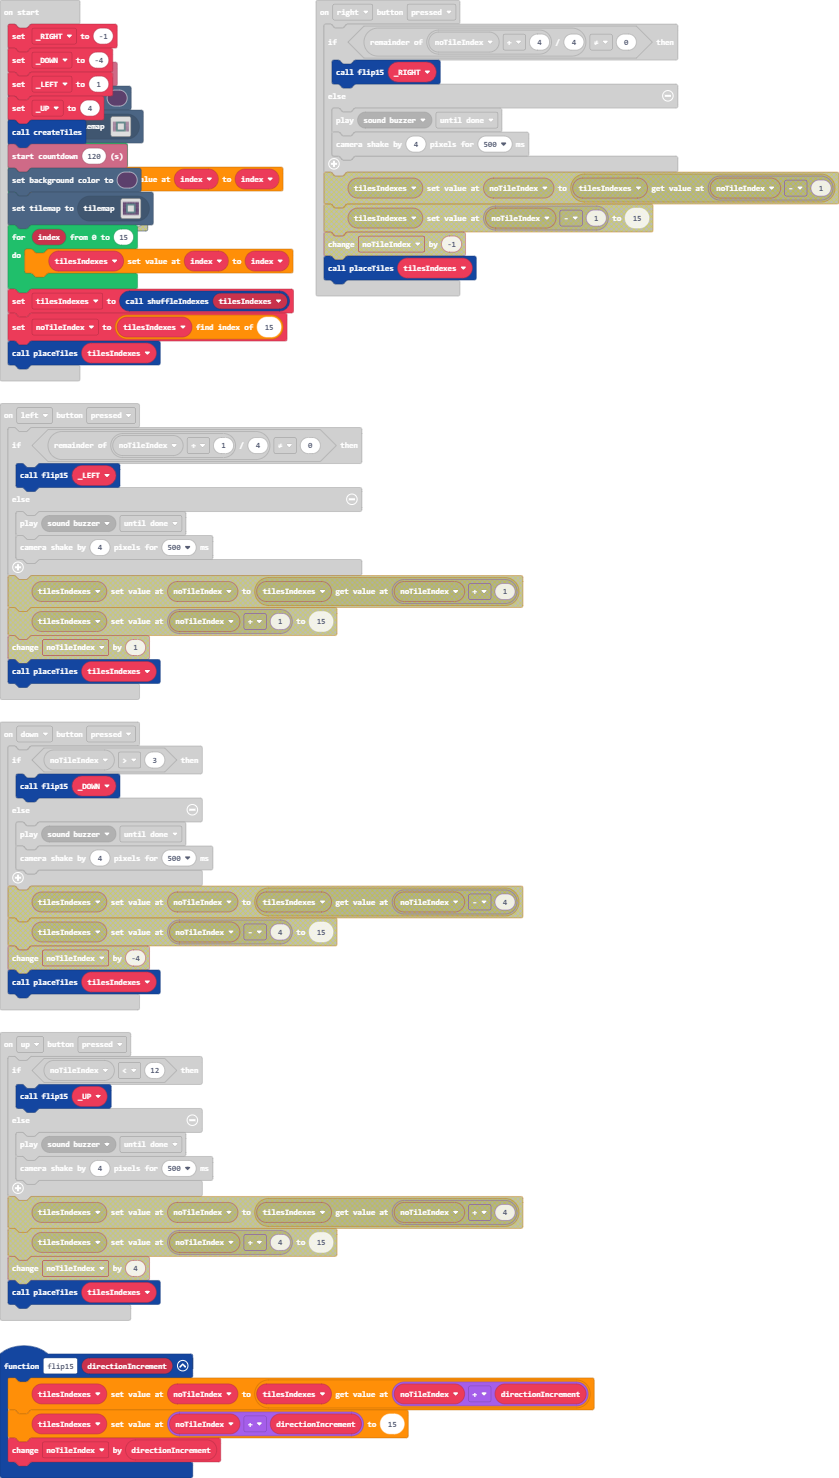
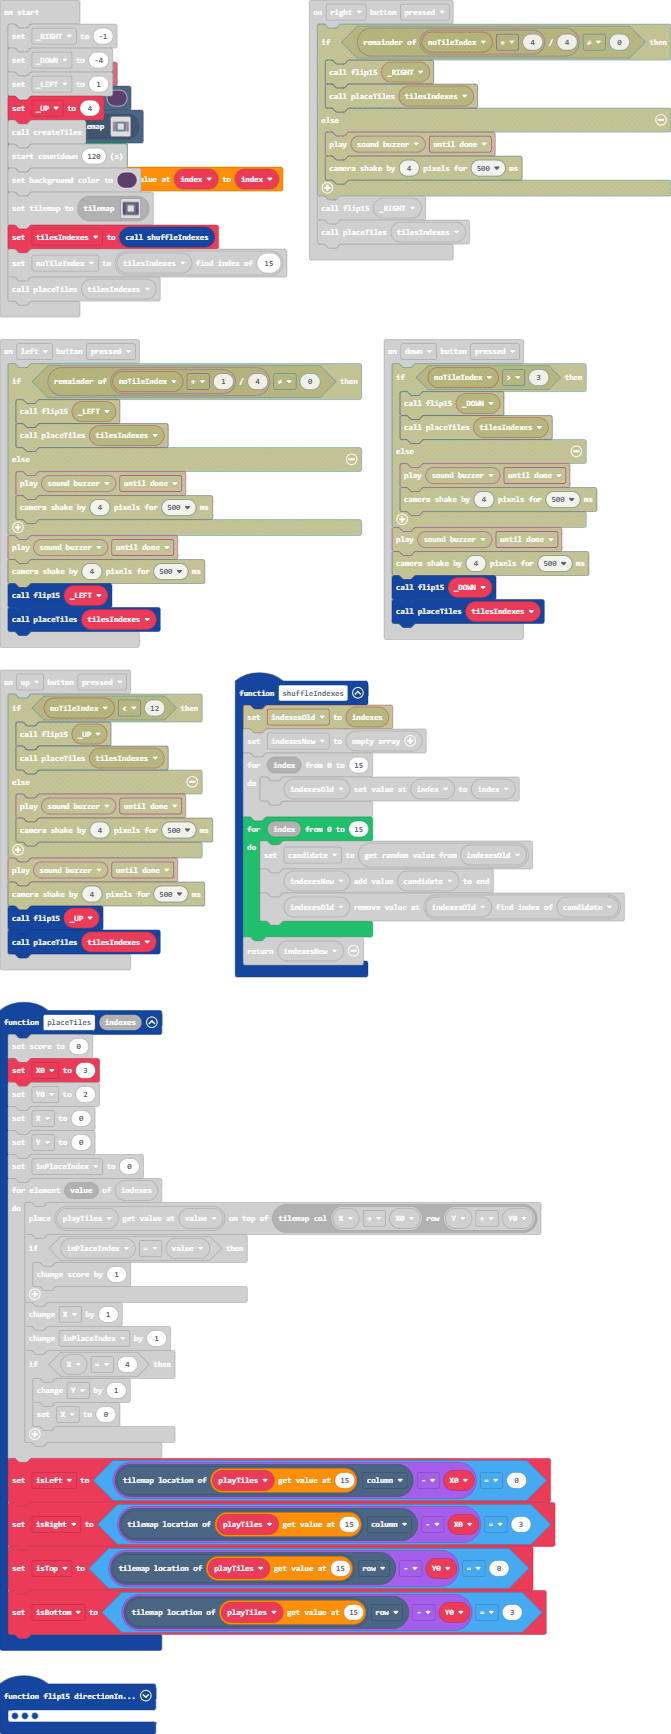
More functions

diff --git a/main.ts b/main.ts
@@ -2,18 +2,18 @@ namespace SpriteKind {
     export const Tile = SpriteKind.create()
 }
 function flip15 (directionIncrement: number) {
-    tilesIndexes[noTileIndex] = tilesIndexes[noTileIndex + directionIncrement]
-    tilesIndexes[noTileIndex + directionIncrement] = 15
-    noTileIndex += directionIncrement
-}
-controller.up.onEvent(ControllerButtonEvent.Pressed, function () {
-    if (noTileIndex < 12) {
-        flip15(_UP)
-        placeTiles(tilesIndexes)
+    if (directionIncrement == _RIGHT && !(isLeft) || directionIncrement == _LEFT && !(isRight) || (directionIncrement == _DOWN && !(isTop) || directionIncrement == _UP && !(isBottom))) {
+        tilesIndexes[noTileIndex] = tilesIndexes[noTileIndex + directionIncrement]
+        tilesIndexes[noTileIndex + directionIncrement] = 15
+        noTileIndex += directionIncrement
     } else {
         music.play(music.melodyPlayable(music.buzzer), music.PlaybackMode.UntilDone)
         scene.cameraShake(4, 500)
     }
+}
+controller.up.onEvent(ControllerButtonEvent.Pressed, function () {
+    flip15(_UP)
+    placeTiles(tilesIndexes)
 })
 function placeTiles (indexes: number[]) {
     info.setScore(0)
@@ -34,37 +34,26 @@ function placeTiles (indexes: number[]) {
             X = 0
         }
     }
+    isLeft = playTiles[15].tilemapLocation().column - X0 == 0
+    isRight = playTiles[15].tilemapLocation().column - X0 == 3
+    isTop = playTiles[15].tilemapLocation().row - Y0 == 0
+    isBottom = playTiles[15].tilemapLocation().row - Y0 == 3
 }
 controller.left.onEvent(ControllerButtonEvent.Pressed, function () {
-    if ((noTileIndex + 1) % 4 != 0) {
-        flip15(_LEFT)
-        placeTiles(tilesIndexes)
-    } else {
-        music.play(music.melodyPlayable(music.buzzer), music.PlaybackMode.UntilDone)
-        scene.cameraShake(4, 500)
-    }
+    flip15(_LEFT)
+    placeTiles(tilesIndexes)
 })
 info.onScore(16, function () {
     pause(500)
     game.gameOver(true)
 })
 controller.right.onEvent(ControllerButtonEvent.Pressed, function () {
-    if ((noTileIndex + 4) % 4 != 0) {
-        flip15(_RIGHT)
-        placeTiles(tilesIndexes)
-    } else {
-        music.play(music.melodyPlayable(music.buzzer), music.PlaybackMode.UntilDone)
-        scene.cameraShake(4, 500)
-    }
+    flip15(_RIGHT)
+    placeTiles(tilesIndexes)
 })
 controller.down.onEvent(ControllerButtonEvent.Pressed, function () {
-    if (noTileIndex > 3) {
-        flip15(_DOWN)
-        placeTiles(tilesIndexes)
-    } else {
-        music.play(music.melodyPlayable(music.buzzer), music.PlaybackMode.UntilDone)
-        scene.cameraShake(4, 500)
-    }
+    flip15(_DOWN)
+    placeTiles(tilesIndexes)
 })
 function createTiles () {
     playTiles = [
@@ -86,9 +75,12 @@ function createTiles () {
     sprites.create(assets.image`noTile`, SpriteKind.Tile)
     ]
 }
-function shuffleIndexes (indexes: number[]) {
-    indexesOld = indexes
+function shuffleIndexes () {
+    let indexesOld: number[] = []
     indexesNew = []
+    for (let index = 0; index <= 15; index++) {
+        indexesOld[index] = index
+    }
     for (let index = 0; index <= 15; index++) {
         candidate = indexesOld._pickRandom()
         indexesNew.push(candidate)
@@ -98,13 +90,16 @@ function shuffleIndexes (indexes: number[]) {
 }
 let candidate = 0
 let indexesNew: number[] = []
-let indexesOld: number[] = []
 let playTiles: Sprite[] = []
 let inPlaceIndex = 0
 let Y = 0
 let X = 0
 let Y0 = 0
 let X0 = 0
+let isBottom = false
+let isTop = false
+let isRight = false
+let isLeft = false
 let noTileIndex = 0
 let tilesIndexes: number[] = []
 let _UP = 0
@@ -119,9 +114,6 @@ createTiles()
 info.startCountdown(120)
 scene.setBackgroundColor(12)
 tiles.setCurrentTilemap(tilemap`level1`)
-for (let index = 0; index <= 15; index++) {
-    tilesIndexes[index] = index
-}
-tilesIndexes = shuffleIndexes(tilesIndexes)
+tilesIndexes = shuffleIndexes()
 noTileIndex = tilesIndexes.indexOf(15)
 placeTiles(tilesIndexes)

diff --git a/tilemap.g.ts b/tilemap.g.ts
@@ -8,12 +8,12 @@ namespace myTiles {
             case "level1":
[1 lines of base64/hex data omitted]
 . . . . . . . . . . 
-. . . . . . . . . . 
-. . . . . . . . . . 
-. . . . . . . . . . 
-. . . . . . . . . . 
-. . . . . . . . . . 
-. . . . . . . . . . 
+. . 2 2 2 2 2 2 . . 
+. . 2 . . . . 2 . . 
+. . 2 . . . . 2 . . 
+. . 2 . . . . 2 . . 
+. . 2 . . . . 2 . . 
+. . 2 2 2 2 2 2 . . 
 . . . . . . . . . . 
 `, [myTiles.transparency16,sprites.dungeon.darkGroundCenter,sprites.dungeon.greenInnerNorthWest,sprites.dungeon.greenInnerSouthWest,sprites.dungeon.greenInnerSouthEast,sprites.dungeon.greenInnerNorthEast,sprites.dungeon.greenOuterWest1,sprites.dungeon.greenOuterWest0,sprites.dungeon.greenOuterSouth1,sprites.dungeon.greenOuterSouth0,sprites.dungeon.greenOuterEast0,sprites.dungeon.greenOuterEast1,sprites.dungeon.greenOuterNorth0,sprites.dungeon.greenOuterNorth1], TileScale.Sixteen);
         }
